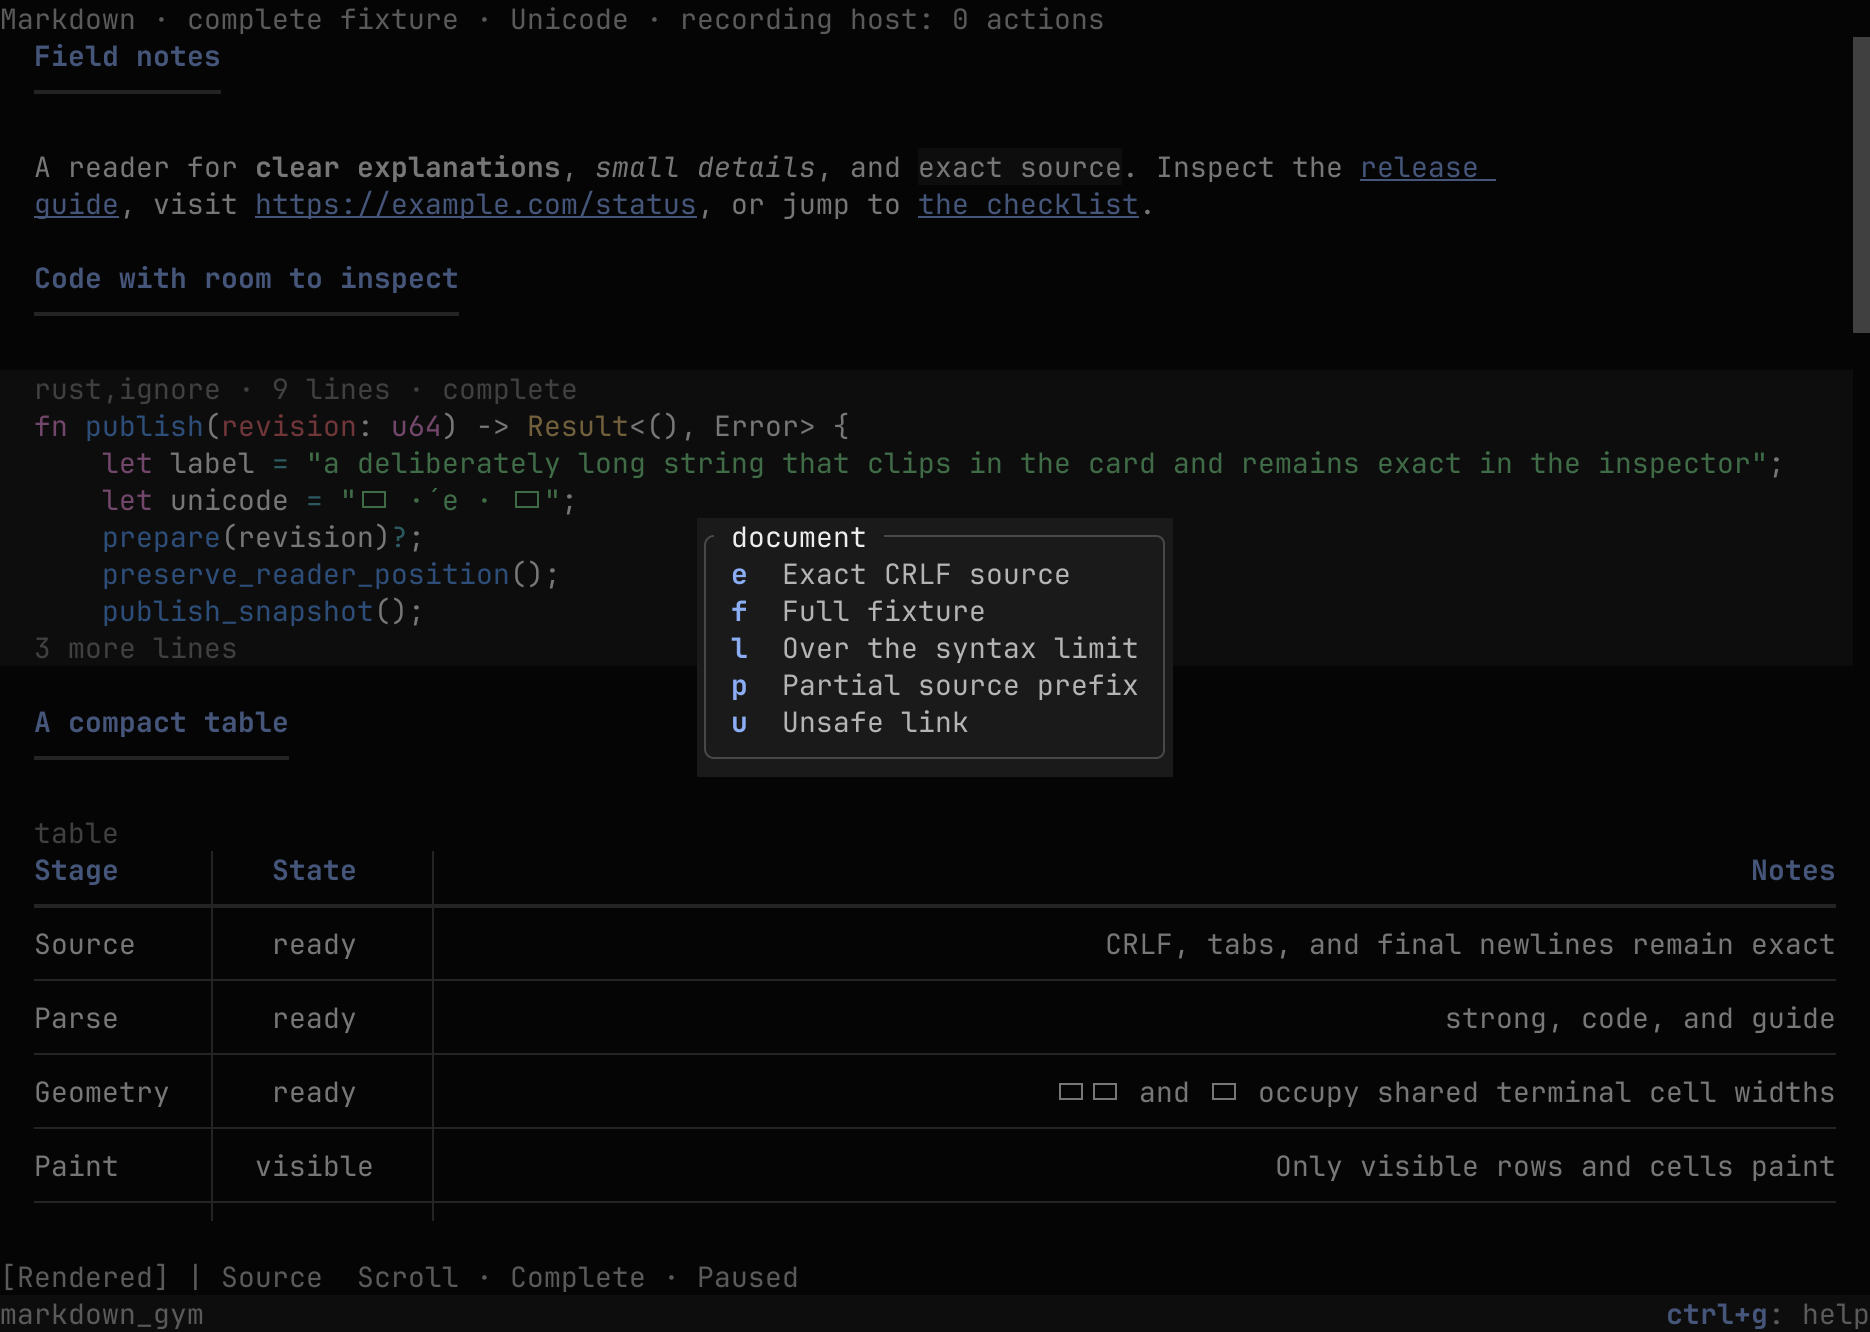
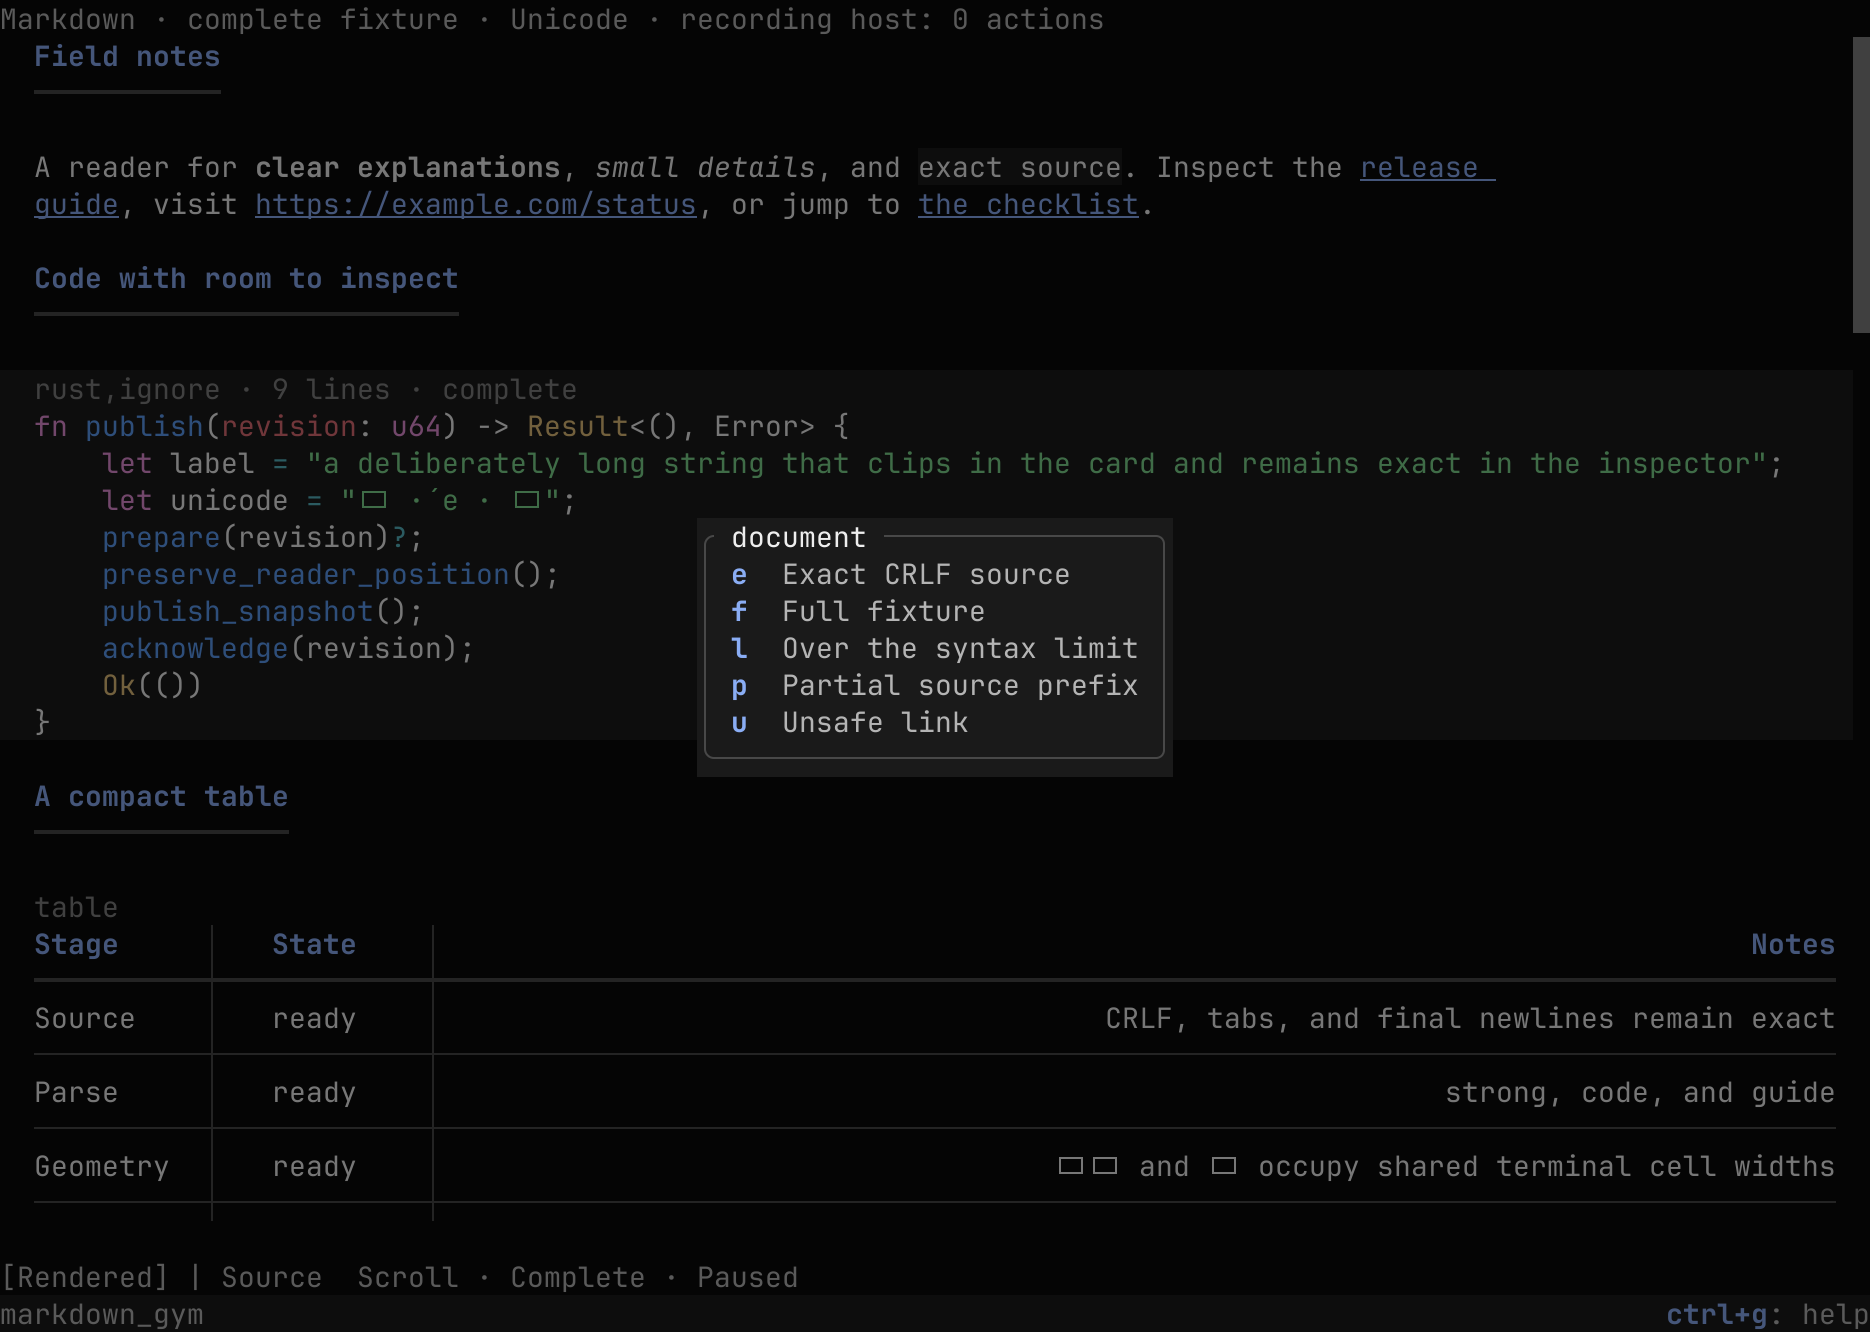
Never cut Markdown content vertically in the rendered view
Code and source cards showed six lines and a count of the rest, and a
table preview wrapped each value over at most four lines before an
ellipsis. Cards now show every line, highlighted throughout within the
existing syntax budget, and clip only lines wider than the card. Table
previews give every value the lines it needs, so prose columns narrow to
their floor before trailing columns drop.

diff --git a/docs/gallery/index.html b/docs/gallery/index.html
@@ -346,7 +346,7 @@
 <script>
 const GALLERY = {
   "title": "Canopy widgets",
-  "generated": 1792277652,
+  "generated": 1792278857,
   "font_size": 14.0,
   "scale": 2.0,
   "sizes": [

diff --git a/crates/canopy-markdown/src/presentation/mod.rs b/crates/canopy-markdown/src/presentation/mod.rs
@@ -34,10 +34,6 @@ use crate::document::{
 
 /// Bounded row count for one derived presentation.
 const MAX_PREPARED_ROWS: usize = 262_144;
-/// Literal lines shown in a code or source card preview.
-const PREVIEW_LINES: usize = 6;
-/// Most lines one wrapped cell takes in an inline table preview.
-const PREVIEW_CELL_LINES: u32 = 4;
 /// How far the object cursor's ground leans from the background toward the
 /// accent. Panels and selections share one color in some themes, so a tint
 /// keeps the cursor apart from code cards and inline code.
@@ -915,7 +911,9 @@ fn prepare_block(
                     data.clone(),
                     FlowOptions {
                         width: body,
-                        cell_lines: PREVIEW_CELL_LINES,
+                        // The preview never cuts a value short: every value
+                        // takes the lines it needs.
+                        cell_lines: u32::MAX,
                         glyphs,
                     },
                 )
@@ -993,7 +991,7 @@ fn prepare_block(
                 geometry.glyphs,
             );
             rows.push(row);
-            for (offset, line) in preview_lines(&unit.text) {
+            for (offset, line) in card_lines(&unit.text) {
                 let mut row = make_row();
                 row.ground = "markdown/card";
                 clipped(
@@ -1008,20 +1006,6 @@ fn prepare_block(
                         role: "markdown/card",
                         glyphs: geometry.glyphs,
                     },
-                );
-                rows.push(row);
-            }
-            if unit.text.lines().nth(PREVIEW_LINES).is_some() {
-                let mut row = make_row();
-                row.ground = "markdown/card";
-                decoration(
-                    &mut row,
-                    inset,
-                    "more source",
-                    body,
-                    "markdown/card/label",
-                    object,
-                    geometry.glyphs,
                 );
                 rows.push(row);
             }
@@ -1106,7 +1090,8 @@ fn prepare_block(
     }
 }
 
-/// Prepare a six-line code card and its receiving or omitted-content labels.
+/// Prepare a code card: its label, then every line of the payload. Long
+/// lines are clipped at the card's edge, but no line is left out.
 fn prepare_code(
     rows: &mut Vec<PreparedRow>,
     make_row: impl Fn() -> PreparedRow,
@@ -1161,7 +1146,7 @@ fn prepare_code(
     } else {
         Vec::new()
     };
-    for (line_index, (byte, line)) in preview_lines(&code.payload).enumerate() {
+    for (line_index, (byte, line)) in card_lines(&code.payload).enumerate() {
         let mut row = make_row();
         row.ground = "markdown/card";
         clipped(
@@ -1179,32 +1164,16 @@ fn prepare_code(
         );
         rows.push(row);
     }
-    if code.line_count > PREVIEW_LINES {
-        let mut row = make_row();
-        row.ground = "markdown/card";
-        decoration(
-            &mut row,
-            inset,
-            &format!("{} more lines", code.line_count - PREVIEW_LINES),
-            budget,
-            "markdown/card/label",
-            object,
-            glyphs,
-        );
-        rows.push(row);
-    }
 }
 
-/// Card preview lines without terminators, with their byte offsets.
-fn preview_lines(text: &str) -> impl Iterator<Item = (usize, &str)> {
-    text.split_inclusive('\n')
-        .take(PREVIEW_LINES)
-        .scan(0, |offset, raw| {
-            let start = *offset;
-            *offset += raw.len();
-            let line = raw.strip_suffix('\n').unwrap_or(raw);
-            Some((start, line.strip_suffix('\r').unwrap_or(line)))
-        })
+/// Card lines without terminators, with their byte offsets.
+fn card_lines(text: &str) -> impl Iterator<Item = (usize, &str)> {
+    text.split_inclusive('\n').scan(0, |offset, raw| {
+        let start = *offset;
+        *offset += raw.len();
+        let line = raw.strip_suffix('\n').unwrap_or(raw);
+        Some((start, line.strip_suffix('\r').unwrap_or(line)))
+    })
 }
 
 /// Render quote rails, nesting, alert labels, and list markers.
@@ -1597,19 +1566,15 @@ fn clipped(
 }
 
 #[cfg(feature = "syntax")]
-/// Prepare palette role spans for the six-line code preview.
+/// Prepare palette role spans for every line of a code card.
 fn code_syntax(info: &str, payload: &str) -> SyntaxLines {
     use canopy_widgets::highlight::{Highlighter, SyntectHighlighter};
     // The bundled Markdown highlighter resolves fences through Grammar, so
     // aliases and named grammars agree with the code inspector.
     let token = info.split_whitespace().next().unwrap_or("");
     let highlighter = SyntectHighlighter::for_path("preview.md").with_palette_roles();
-    let prefix = payload
-        .split_inclusive('\n')
-        .take(PREVIEW_LINES)
-        .collect::<String>();
-    highlighter.prepare(&format!("```{token}\n{prefix}"));
-    prefix
+    highlighter.prepare(&format!("```{token}\n{payload}"));
+    payload
         .lines()
         .enumerate()
         .map(|(i, line)| {
@@ -1622,7 +1587,7 @@ fn code_syntax(info: &str, payload: &str) -> SyntaxLines {
         .collect()
 }
 #[cfg(not(feature = "syntax"))]
-/// Prepare palette role spans for the six-line code preview.
+/// Prepare palette role spans for every line of a code card.
 fn code_syntax(_info: &str, _payload: &str) -> SyntaxLines {
     Vec::new()
 }

diff --git a/crates/canopy-markdown/src/presentation/tests.rs b/crates/canopy-markdown/src/presentation/tests.rs
@@ -138,15 +138,11 @@ fn narrow_unicode_tabs_and_controls_progress_and_never_overflow() {
 }
 
 #[test]
-fn code_preview_limits_lines_marks_clipping_and_keeps_atomic_payload() {
+fn code_cards_show_every_line_clip_wide_ones_and_keep_atomic_payload() {
     let p = prepared("```unknown\nabcdefghijk\n2\n3\n4\n5\n6\n7\n```\n", 10);
-    assert_eq!(
-        p.height(),
-        8,
-        "label, six payload lines, omission indicator"
-    );
-    assert!(row_text(&p, 1).ends_with('…'));
-    assert_eq!(row_text(&p, 7), "1 more ");
+    assert_eq!(p.height(), 8, "the label, then every payload line");
+    assert!(row_text(&p, 1).ends_with('…'), "a wide line clips");
+    assert_eq!(row_text(&p, 7).trim_end(), "7", "no line is left out");
     let id = p.document.units[0].id;
     let range = ReadingRange {
         start: ReadingPosition {
@@ -594,4 +590,34 @@ fn table_preview_keeps_every_row_and_marks_cut_columns() {
     h.render().unwrap();
     assert!(h.tbuf().contains_text("k11"));
     assert!(h.tbuf().contains_text("›"));
+}
+
+#[test]
+fn source_cards_and_table_previews_show_every_line() {
+    let html: String = (1..=9).map(|i| format!("<p>line {i}</p>\n")).collect();
+    let p = prepared(&format!("<div>\n{html}</div>\n"), 40);
+    let rows: Vec<String> = (0..p.height()).map(|row| row_text(&p, row)).collect();
+    assert!(
+        rows.iter().any(|row| row.contains("line 9")),
+        "a source card shows its last line: {rows:?}"
+    );
+    assert!(
+        !rows.iter().any(|row| row.contains("more source")),
+        "{rows:?}"
+    );
+
+    let long = "word ".repeat(60);
+    let p = prepared(&format!("| a | b |\n| --- | --- |\n| k | {long}|\n"), 30);
+    let flow = p
+        .blocks
+        .iter()
+        .find_map(|block| block.flow.clone())
+        .expect("a flowed table");
+    // Three hundred cells of value at most 30 wide need far more than the
+    // four lines a preview once allowed.
+    assert!(
+        flow.height() > 12,
+        "the value wraps in full: {}",
+        flow.height()
+    );
 }

diff --git a/docs/markdown.md b/docs/markdown.md
@@ -36,9 +36,11 @@ Scroll mode moves the document. Interact mode adds an object cursor and readable
 text selection. The cursor gives its object one accent-tinted ground, which spans
 the full width of a card or table, and a bar in the left margin marks each of its
 rows. Links open an inspector first; a separate Open action requests a
-browser launch. Code cards show a short preview and open a pinned full-text
-inspector. A table preview shows every row and fits the reading width. Long
-values wrap within their columns, while short and single-word columns keep their
+browser launch. The rendered view never cuts content vertically. Code and
+source cards show every line; a line wider than its card clips at the card's
+edge, and the pinned code inspector shows it whole. A table preview shows
+every row and fits the reading width. Long values wrap within their columns
+over as many lines as they need, while short and single-word columns keep their
 widths. Accent labels and a heavy rule mark the header, and light rules separate
 rows when any of them wraps. When prose would need columns too narrow to hold
 it, the preview keeps the leading columns that fit, marks each line at its
